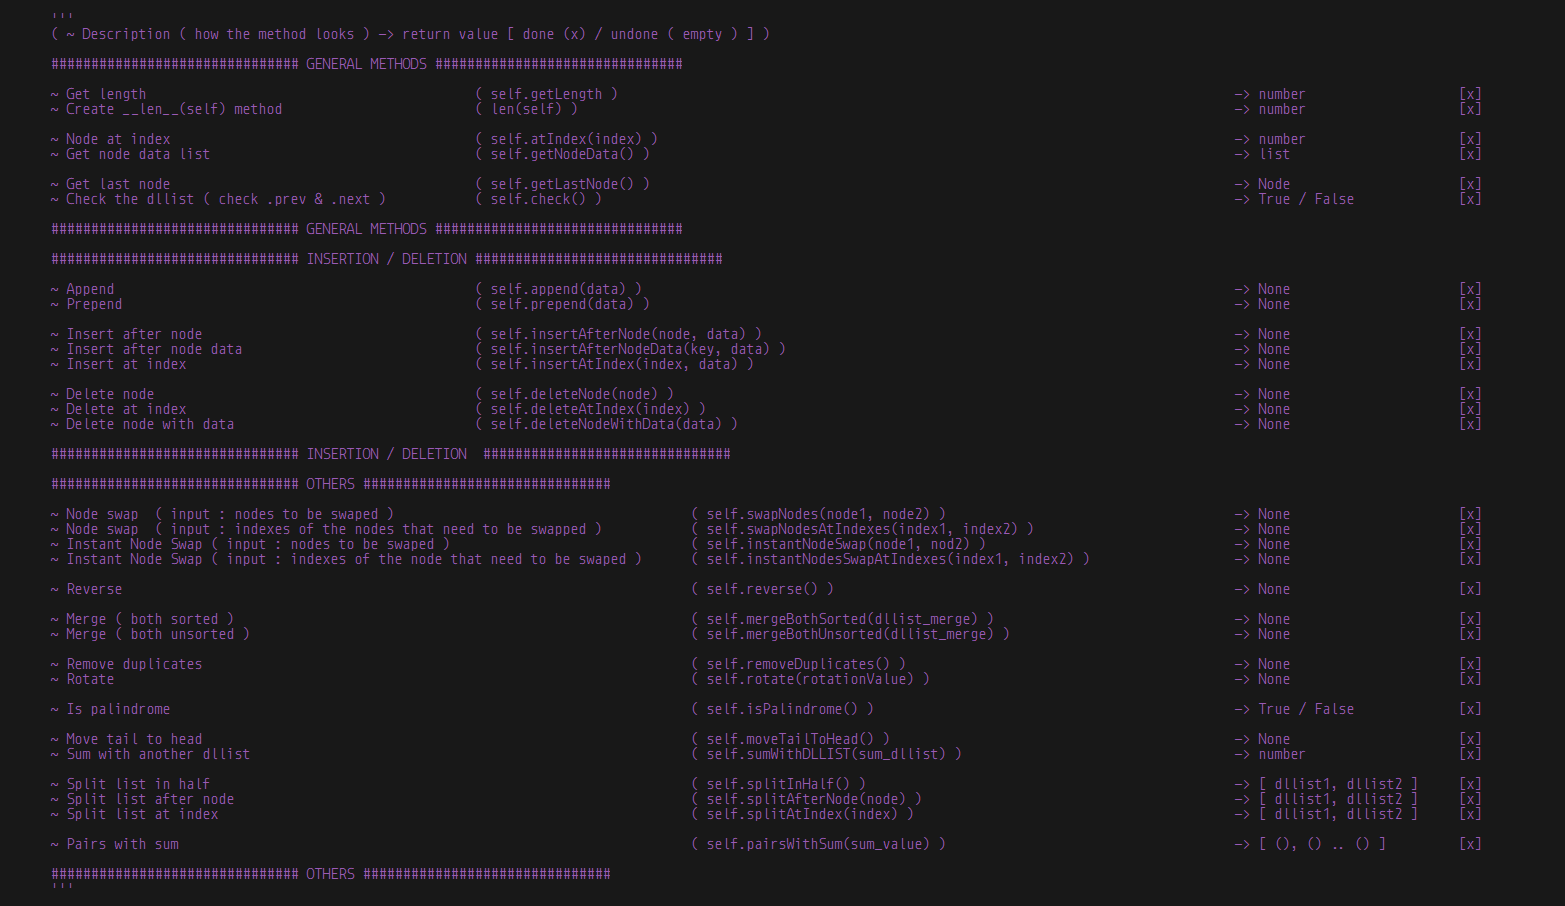
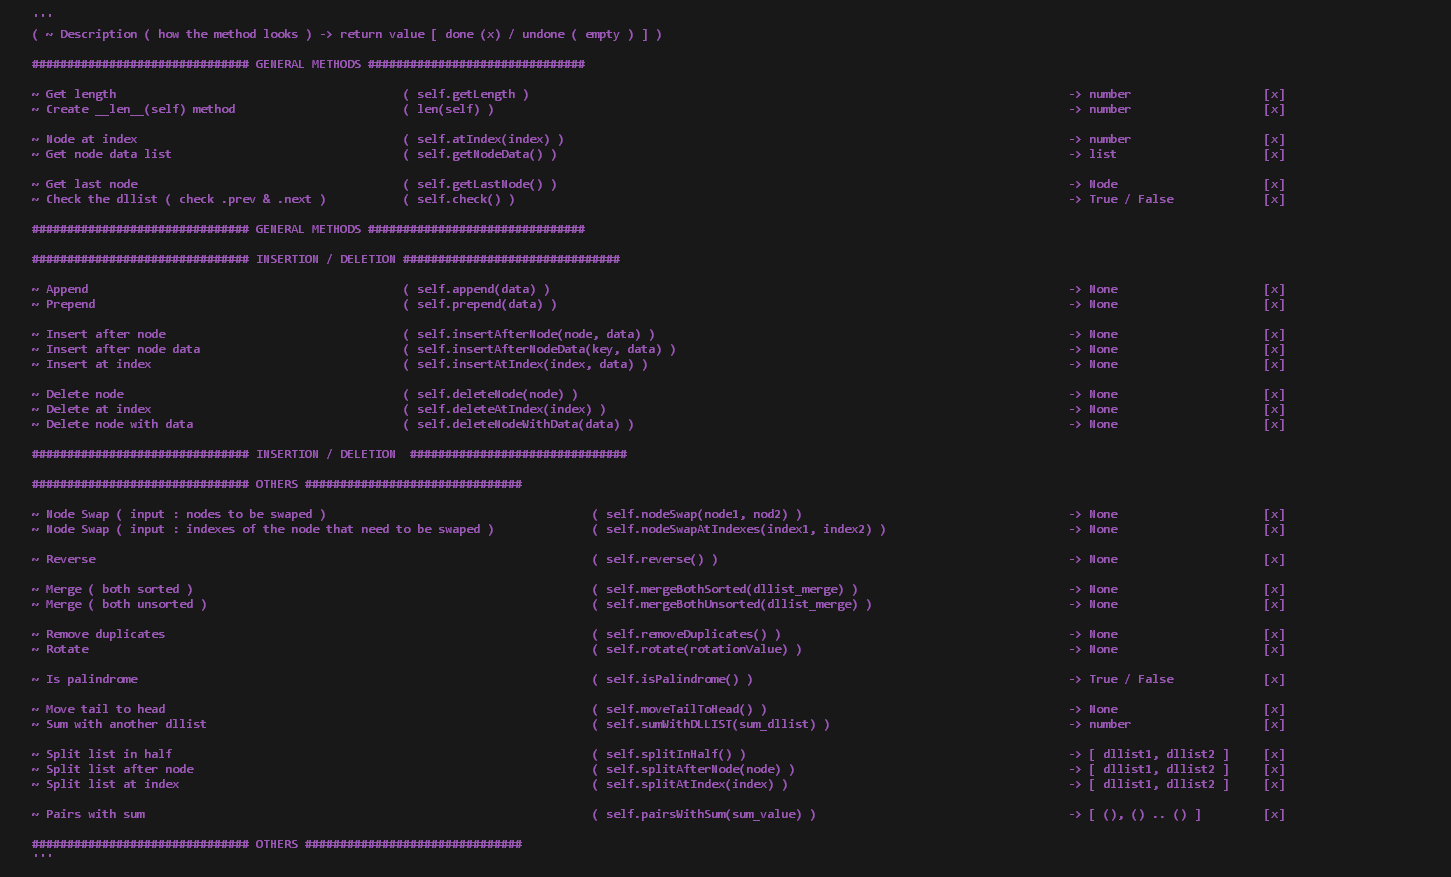
Doubly Linked List - Final Code

diff --git a/Data structures ( code in python )/Linear Data Structures/Doubly Linked List ( Python Code )/DoublyLinkedList_FinalCode.py b/Data structures ( code in python )/Linear Data Structures/Doubly Linked List ( Python Code )/DoublyLinkedList_FinalCode.py
@@ -112,10 +112,8 @@ class DoublyLinkedList(object):
 
         ############################### OTHERS ###############################
 
-        ~ Node swap  ( input : nodes to be swaped )                                     ( self.swapNodes(node1, node2) )                                    -> None                     [x]
-        ~ Node swap  ( input : indexes of the nodes that need to be swapped )           ( self.swapNodesAtIndexes(index1, index2) )                         -> None                     [x]
-        ~ Instant Node Swap ( input : nodes to be swaped )                              ( self.instantNodeSwap(node1, nod2) )                               -> None                     [x]
-        ~ Instant Node Swap ( input : indexes of the node that need to be swaped )      ( self.instantNodesSwapAtIndexes(index1, index2) )                  -> None                     [x]
+        ~ Node Swap ( input : nodes to be swaped )                                      ( self.nodeSwap(node1, nod2) )                                      -> None                     [x]
+        ~ Node Swap ( input : indexes of the node that need to be swaped )              ( self.nodeSwapAtIndexes(index1, index2) )                          -> None                     [x]
 
         ~ Reverse                                                                       ( self.reverse() )                                                  -> None                     [x]
 
@@ -463,100 +461,7 @@ class DoublyLinkedList(object):
         
     ############################### OTHERS ###############################
 
-    def swapNodes(self, node1, node2):
-        # Check the nodes 
-        if type(node1) != Node and type(node2) != Node:
-            raise ValueError("The given nodes must have a 'Node' type")
-
-        if node1.data == node2.data:
-            return
-        
-        # Get the prev & next nodes
-        node1_prev = node1.prev
-        node1_next = node1.next
-
-        node2_prev = node2.prev
-        node2_next = node2.next
-
-        # Swap .prev & .next values
-        if node1_prev and node2_prev and node1_next and node2_next:
-            node1.next, node1.prev, node2.next, node2.prev, node1_prev.next, node2_prev.next, node1_next.prev, node2_next.prev = node2_next, node2_prev, node1_next, node1_prev, node2, node1, node2, node1
-        elif node1 == self.head and node2_next:
-            node1.next, node1.prev, node2.next, node2.prev, node2_prev.next, node1_next.prev, node2_next.prev = node2_next, node2_prev, node1_next, node1_prev, node1, node2, node1
-            self.head = node2
-        elif node2 == self.head and node1_next:
-            node1.next, node1.prev, node2.next, node2.prev, node1_prev.next, node1_next.prev, node2_next.prev = node2_next, node2_prev, node1_next, node1_prev, node2, node2, node1
-            self.head = node1
-        elif not node1_next and node2 != self.head:
-            node1.next, node1.prev, node2.next, node2.prev, node1_prev.next, node2_prev.next, node2_next.prev = node2_next, node2_prev, node1_next, node1_prev, node2, node1, node1
-        elif not node2_next and node1 != self.head:
-            node1.next, node1.prev, node2.next, node2.prev, node1_prev.next, node2_prev.next, node1_next.prev = node2_next, node2_prev, node1_next, node1_prev, node2, node1, node2
-        elif node1 == self.head and not node2_next:
-            node1.next, node1.prev, node2.next, node2.prev, node2_prev.next, node1_next.prev = node2_next, node2_prev, node1_next, node1_prev, node1, node2
-            self.head = node2
-        elif node2 == self.head and not node1_next:
-            node1.next, node1.prev, node2.next, node2.prev, node1_prev.next,  node2_next.prev = node2_next, node2_prev, node1_next, node1_prev, node2, node1
-            self.head = node1
-
-    def swapNodesAtIndexes(self, index1, index2):
-        # Check the indexes
-        if index1 >= self.length or index2 >= self.length or index1 < 0 or index2 < 0:
-            raise IndexError("The given indexes are either too big for the dllist or too small ( < 0 ).")
-
-        # If both indexes are the same than, there is nothing to swap
-        if index1 == index2:
-            return
-
-        # Iterate over the dllist and get the nodes
-        current = self.head
-        indexTrack = 0
-    
-        # Create the nodes
-        node1_prev = None
-        node1 = None
-        node1_next = None
-
-        node2_prev = None
-        node2 = None
-        node2_next = None
-
-        while indexTrack <= max([index1, index2]):
-            if indexTrack == index1:
-                node1 = current
-                node1_prev = node1.prev
-                node1_next = node1.next
-            if indexTrack == index2:
-                node2 = current
-                node2_prev = node2.prev
-                node2_next = node2.next
-
-            indexTrack += 1 
-            current = current.next
-       
-        print("node1 : {0}".format(node1.data))
-        print("node2 : {0}".format(node2.data))
-
-        # Swap .prev & .next values
-        if node1_prev and node2_prev and node1_next and node2_next:
-            node1.next, node1.prev, node2.next, node2.prev, node1_prev.next, node2_prev.next, node1_next.prev, node2_next.prev = node2_next, node2_prev, node1_next, node1_prev, node2, node1, node2, node1
-        elif node1 == self.head and node2_next:
-            node1.next, node1.prev, node2.next, node2.prev, node2_prev.next, node1_next.prev, node2_next.prev = node2_next, node2_prev, node1_next, node1_prev, node1, node2, node1
-            self.head = node2
-        elif node2 == self.head and node1_next:
-            node1.next, node1.prev, node2.next, node2.prev, node1_prev.next, node1_next.prev, node2_next.prev = node2_next, node2_prev, node1_next, node1_prev, node2, node2, node1
-            self.head = node1
-        elif not node1_next and node2 != self.head:
-            node1.next, node1.prev, node2.next, node2.prev, node1_prev.next, node2_prev.next, node2_next.prev = node2_next, node2_prev, node1_next, node1_prev, node2, node1, node1
-        elif not node2_next and node1 != self.head:
-            node1.next, node1.prev, node2.next, node2.prev, node1_prev.next, node2_prev.next, node1_next.prev = node2_next, node2_prev, node1_next, node1_prev, node2, node1, node2
-        elif node1 == self.head and not node2_next:
-            node1.next, node1.prev, node2.next, node2.prev, node2_prev.next, node1_next.prev = node2_next, node2_prev, node1_next, node1_prev, node1, node2
-            self.head = node2
-        elif node2 == self.head and not node1_next:
-            node1.next, node1.prev, node2.next, node2.prev, node1_prev.next,  node2_next.prev = node2_next, node2_prev, node1_next, node1_prev, node2, node1
-            self.head = node1
-
-    def instantNodeSwap(self, node1, node2):
+    def nodeSwap(self, node1, node2):
         # Check the nodes
         if not node1 or not node2:
             raise ValueError("The given nodes are not valid.")
@@ -567,9 +472,9 @@ class DoublyLinkedList(object):
         # Swap only the data
         node1.data, node2.data = node2.data, node1.data
 
-    def instantNodeSwapAtIndexes(self, index1, index2):
+    def nodeSwapAtIndexes(self, index1, index2):
         # Check the indexes
-        if index1 > self.length or index2 > self.length or index1 < 0 or index2 < 0:
+        if not 0 <= index1 < self.length and not 0 <= index2 < self.length:
             raise IndexError("The given indexes are either too big for the dllist or too small ( < 0 ).")
 
         if index1 == index2:
